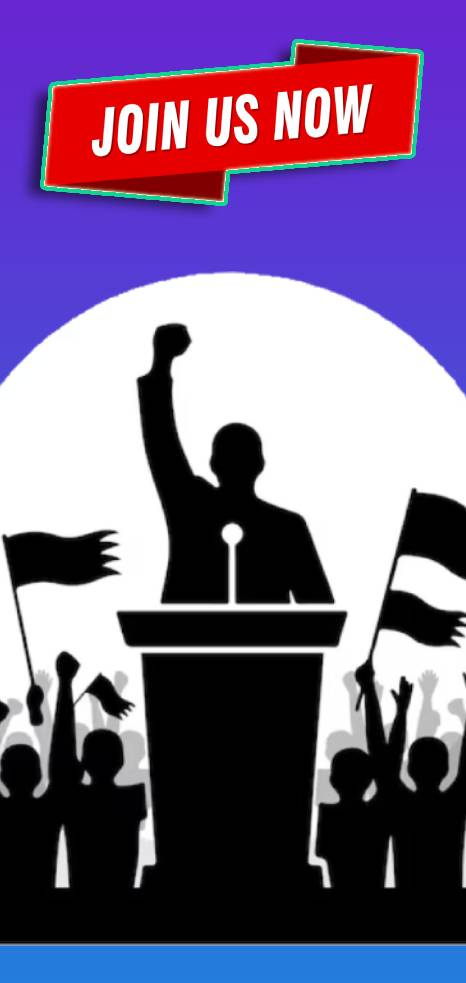
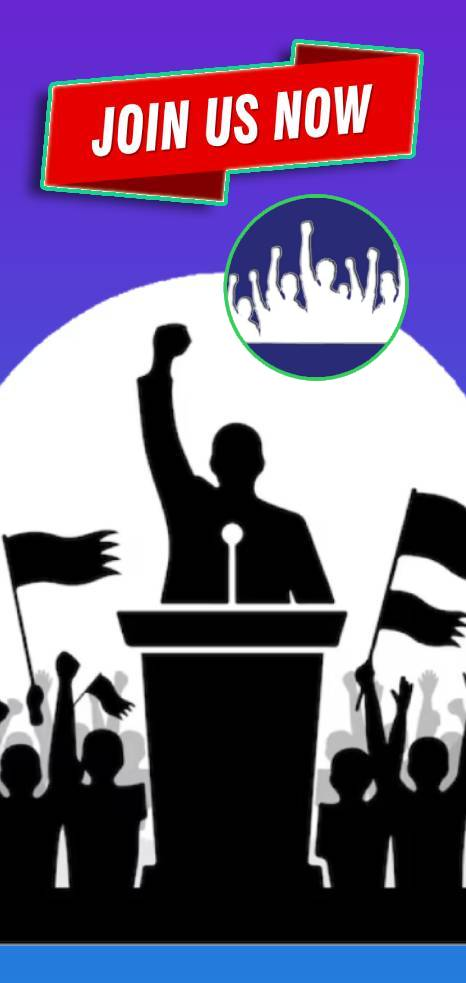
registration table minor changes

Changed region(s): [[0.4807, 0.1831, 0.9013, 0.3967]]

diff --git a/resources/views/include/footer.blade.php b/resources/views/include/footer.blade.php
@@ -39,25 +39,27 @@
                 <div class="footer-item">
                     <div class="footer-contact">
                         <h3>Contact Info</h3>
-                        <p>Grursus mal suada faci Lorem to the ipsum dolarorit</p>
+
                         <ul>
                             <li>
                                 <i class="icofont-location-pin"></i>
-                                <a href="#">113 Pily, White House, New Jersey, USA</a>
+                                <a href="#">14/22, Navabharath Colony,<br>
+                                    2nd Street, Kalakshetra Colony,<br>
+                                    Besant Nagar,
+                                    Chennai – 600090.
+                                </a>
                             </li>
                             <li>
                                 <i class="icofont-ui-call"></i>
-                                <a href="tel:+0015481592491">+001-548-159-2491</a>
-                                <a href="tel:+1256548566523">+125-654-856-6523</a>
+                                <a href="tel:+9100000000">+91000000 000000</a>
+
                             </li>
                             <li>
                                 <i class="icofont-paper-plane"></i>
                                 <a href="#mailto:hello@pily.com"><span
                                         class="__cf_email__"
                                         data-cfemail="c6aea3aaaaa986b6afaabfe8a5a9ab">[email&#160;protected]</span></a>
-                                <a href="#mailto:info@pily.com"><span
-                                        class="__cf_email__"
-                                        data-cfemail="d5bcbbb3ba95a5bcb9acfbb6bab8">[email&#160;protected]</span></a>
+
                             </li>
                         </ul>
                     </div>
@@ -112,46 +114,8 @@
             <div class="col-sm-6 col-lg-4">
                 <div class="footer-item">
                     <div class="footer-events">
-                        <h3>Recent Events</h3>
-                        <div class="footer-events-inner">
-                            <ul class="align-items-center">
-                                <li>
-                                    <img
-                                        src="assets/images/footer-events1.jpg"
-                                        alt="Events" />
-                                    <span>16 Nov</span>
-                                </li>
-                                <li>
-                                    <a href="events.html">Protest Against Of The Black Community</a>
-                                </li>
-                            </ul>
-                        </div>
-                        <div class="footer-events-inner">
-                            <ul class="align-items-center">
-                                <li>
-                                    <img
-                                        src="assets/images/footer-events2.jpg"
-                                        alt="Events" />
-                                    <span>17 Nov</span>
-                                </li>
-                                <li>
-                                    <a href="events.html">Media Coverage Of The Protesting Event</a>
-                                </li>
-                            </ul>
-                        </div>
-                        <div class="footer-events-inner">
-                            <ul class="align-items-center">
-                                <li>
-                                    <img
-                                        src="assets/images/footer-events3.jpg"
-                                        alt="Events" />
-                                    <span>18 Nov</span>
-                                </li>
-                                <li>
-                                    <a href="events.html">Protest Against Inhuman Activities In City</a>
-                                </li>
-                            </ul>
-                        </div>
+                        <h3>Location</h3>
+
                     </div>
                 </div>
             </div>
@@ -161,7 +125,7 @@
     <div class="copyright-area two">
         <div class="container">
             <p>
-                © Podhu Makkal Iyakkam
+                © Tamilaga Podhu Makkal Iyakkam
                 <a href="https://solverssoftech.com/" target="_blank">SolversSoftech</a>
             </p>
         </div>
@@ -310,24 +274,48 @@
         // =========================================================
         // VALIDATE TEXT / SELECT / TEXTAREA
         // =========================================================
+        // =========================================================
+        // VALIDATE REQUIRED TEXT / SELECT / TEXTAREA
+        // =========================================================
         function validateRequiredField(input) {
+
             if (!input) {
                 return false;
             }
 
             const value = String(input.value || '').trim();
 
-            if (value === '') {
-                if (input.tagName === 'SELECT') {
-                    showFieldError(input, 'Please select an option');
-                } else {
-                    showFieldError(input, 'This field is required');
+            // SELECT validation
+            if (input.tagName === 'SELECT') {
+
+                // Empty or default value "0"
+                if (value === '' || value === '0') {
+
+                    showFieldError(
+                        input,
+                        'Please select an option'
+                    );
+
+                    return false;
                 }
+
+                clearFieldError(input);
+                return true;
+            }
+
+            // TEXT / TEXTAREA validation
+            if (value === '') {
+
+                showFieldError(
+                    input,
+                    'This field is required'
+                );
 
                 return false;
             }
 
             clearFieldError(input);
+
             return true;
         }
 

diff --git a/resources/views/member_register.blade.php b/resources/views/member_register.blade.php
@@ -76,12 +76,16 @@
 
                                 <div class="form-group">
                                     <label for="community">Community</label>
-
-                                    <input
-                                        type="text"
-                                        id="community"
-                                        name="community"
-                                        required>
+                                    <select id="community" name="community">
+                                        <option value="" selected disabled>
+                                            Select Community
+                                        </option>
+                                        @foreach($community as $row)
+                                        <option value="{{ $row->comm_code }}">
+                                            {{ $row->comm_desc }}
+                                        </option>
+                                        @endforeach
+                                    </select>
 
                                     <div class="error-message"></div>
                                 </div>
@@ -154,7 +158,17 @@
 
                                 <div class="form-group">
                                     <label for="phone">Blood Group</label>
-                                    <input type="text" id="blood_group" name="blood_group" required>
+                                    <select id="blood_group" name="blood_group">
+                                        <option value="" selected disabled>
+                                            Select Blood Group
+                                        </option>
+                                        @foreach($blood as $row)
+                                        <option value="{{ $row->group_code }}">
+                                            {{ $row->group_desc }}
+                                        </option>
+                                        @endforeach
+                                    </select>
+
                                     <div class="error-message"> </div>
                                 </div>
 
@@ -173,7 +187,18 @@
 
                                 <div class="form-group">
                                     <label for="qualification">Qualification</label>
-                                    <input type="text" id="qualification" name="qualification" required>
+
+                                    <select id="qualification" name="qualification">
+                                        <option value="" selected disabled>
+                                            Select Qualification
+                                        </option>
+                                        @foreach($qualification as $row)
+                                        <option value="{{ $row->qual_code }}">
+                                            {{ $row->qual_desc_eng }}
+                                        </option>
+                                        @endforeach
+                                    </select>
+                                    <!-- <input type="text" id="qualification" name="qualification" required> -->
                                     <div class="error-message"> </div>
                                 </div>
                                 <div class="form-group">
@@ -214,26 +239,6 @@
                                     <div class="error-message"></div>
                                 </div>
 
-
-                                <!-- Constitution -->
-                                <div class="form-group">
-                                    <label for="constitution">Constitution</label>
-
-                                    <select id="constitution" name="constitution">
-                                        <option value="">Select Constitution</option>
-
-                                        @foreach($const as $row)
-                                        <option value="{{ $row->id }}">
-                                            {{ $row->acname_eng }}
-                                        </option>
-                                        @endforeach
-
-                                    </select>
-
-                                    <div class="error-message"></div>
-                                </div>
-
-
                                 <!-- District -->
                                 <div class="form-group">
                                     <label for="district">District</label>
@@ -251,6 +256,28 @@
 
                                     <div class="error-message"></div>
                                 </div>
+
+
+                                <!-- Constitution -->
+                                <div class="form-group">
+                                    <label for="constitution">Assembly Constitution</label>
+
+                                    <select id="constitution" name="constitution">
+                                        <option value="">Select Assembly Constitution</option>
+
+                                        @foreach($const as $row)
+                                        <option value="{{ $row->id }}">
+                                            {{ $row->acname_eng }}
+                                        </option>
+                                        @endforeach
+
+                                    </select>
+
+                                    <div class="error-message"></div>
+                                </div>
+
+
+
 
 
                                 <!-- Taluk -->

diff --git a/app/Http/Controllers/PmiRegistrationController.php b/app/Http/Controllers/PmiRegistrationController.php
@@ -21,13 +21,13 @@ class PmiRegistrationController extends Controller
                 'name' => 'required|string|max:150',
                 'father_name' => 'required|string|max:200',
                 'dob' => 'required|date|before:today',
-                'community' => 'required|string|max:50',
+                'community'     => 'required|integer|exists:tbl_community,comm_code',
                 'gender' => 'required|in:Male,Female,others',
                 'martialstatus' => 'required|in:Single,Married,others',
-                'blood_group' => 'required|string|max:10',
+                'blood_group'   => 'required|integer|exists:mst_blood,group_code',
                 'mobile_number' => 'required|regex:/^[6-9][0-9]{9}$/',
                 'email' => 'required|email|max:100',
-                'qualification' => 'required|string|max:100',
+                'qualification' => 'required|integer|exists:mst_qual,qual_code',
                 'occupation' => 'required|string|max:25',
                 'social_media' => 'required|string|max:100',
                 'state' => 'required|string|max:20',

diff --git a/app/Http/Controllers/IndexController.php b/app/Http/Controllers/IndexController.php
@@ -19,12 +19,19 @@ class IndexController extends Controller
         $const = DB::table('mst_const')->get();
         $district = DB::table('mst_district')->get();
         $taluk = DB::table('mst_taluk')->get();
+        $blood = DB::table('mst_blood')->get();
+        $community = DB::table('tbl_community')->get();
+
+        $qualification = DB::table('mst_qual')->get();
 
         return view('member_register', compact(
             'block',
             'const',
             'district',
-            'taluk'
+            'taluk',
+            'blood',
+            'community',
+            'qualification'
         ));
     }
 }

diff --git a/resources/views/include/header.blade.php b/resources/views/include/header.blade.php
@@ -96,9 +96,7 @@
                         <div class="nav-flag-dropdown">
                             <select>
                                 <option>English</option>
-                                <option>العربيّة</option>
-                                <option>Deutsch</option>
-                                <option>Português</option>
+                                <option>தமிழ்</option>
                             </select>
                         </div>
                     </div>
